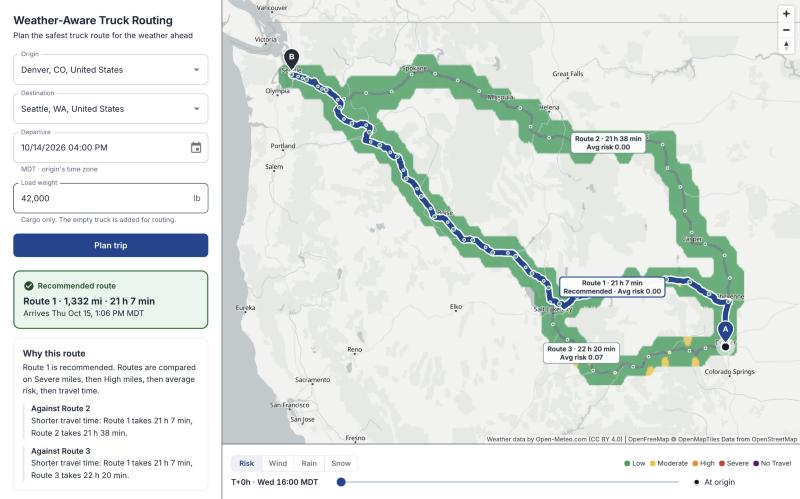
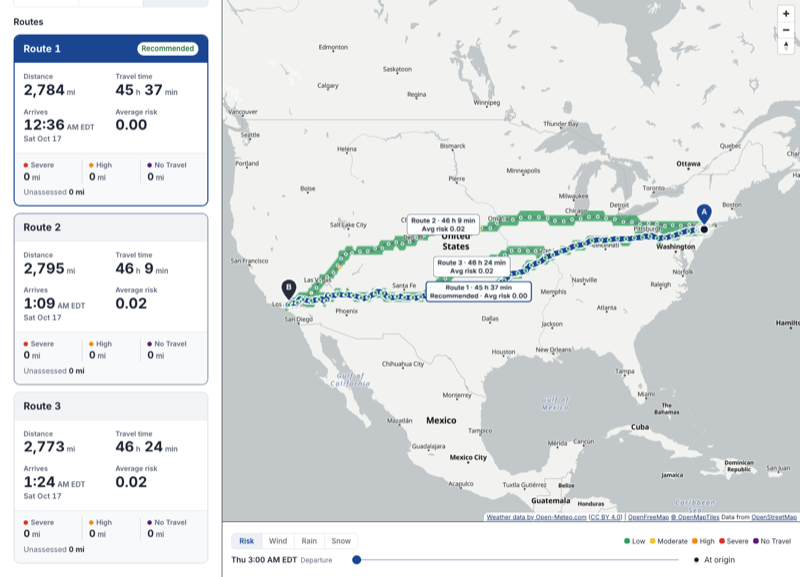
docs: describe the planner as worldwide and record the judgement calls
Place search and routing work anywhere, so the North America limits are removed from
the README and the fixtures note. The README now states the judgement calls that the
code makes: boundary values, strict load rules, gust warnings (kept, informational),
combined risk, the average-risk scale and the 0.25 tie band, forecast hour selection,
interval tiers and the overrides. It drops the removed waking notice. The screenshot is
retaken from the live site. backend/.env.example lists every variable the backend reads,
with empty or non-secret values.

diff --git a/README.md b/README.md
@@ -6,13 +6,13 @@ A truck driver enters an origin, a destination, a departure time and a load weig
 
 ![The planner: three routes, the recommendation, risk-coloured checkpoints and the forecast heatmap](assets/screenshot.png)
 
-The server sleeps when idle, so the first request after a quiet period can take a few seconds. The app says so while it waits.
+The server sleeps when idle, so the first request after a quiet period can take a few seconds.
 
 ## What it does
 
 | The brief asks for | Where it is |
 | --- | --- |
-| Origin, destination, departure time, load weight | Address search limited to the US, Canada and Mexico. Date-time picker in the origin's time zone. Weight in pounds, 1 to 50,000. |
+| Origin, destination, departure time, load weight | Address search anywhere in the world (HERE, with Photon as a fallback). Date-time picker in the origin's time zone. Weight in pounds, 1 to 50,000. |
 | Three route options from a routing API | HERE Routing v8 in truck mode, with the truck's weight and traffic at departure. Near-duplicates are merged and detours fill the gaps. |
 | Weather every 10, 25 or 50 miles at the truck's ETA | The interval is chosen from trip length, with a 10 / 25 / 50 mi override. ETAs come from HERE's segment-level time profile. Forecasts are Open-Meteo hourly data. |
 | Risk from the provided rules | Wind, rain and snow thresholds plus the load rules, in one pure module ([`risk.py`](backend/api/risk.py)). |
@@ -131,7 +131,7 @@ Interactive docs: **[/api/docs](https://spotter.murtazasaifee.com/api/docs)** (S
 
 | Endpoint | Purpose |
 | --- | --- |
-| `GET /api/places/suggest?q=` | Up to 8 North American place suggestions with coordinates and time zone. |
+| `GET /api/places/suggest?q=` | Up to 8 place suggestions from anywhere in the world, with coordinates and time zone. |
 | `POST /api/plan` | Routes, checkpoints, risk, ranking and the recommendation. |
 | `POST /api/heatmap` | 49 hourly frames of risk, wind, rain and snow over the routes a plan returned. |
 | `GET /api/health` | Liveness, no dependencies. |
@@ -174,14 +174,14 @@ The thresholds:
 1. **A value exactly on a band edge goes to the higher band.** The brief's ranges share their edges (0.25 in/hr rain is both Moderate and High). Erring toward caution is the only defensible reading for a safety tool. This includes the top band: the brief writes No Travel as rain "> 1.00" and snow "> 3.0", but here exactly 1.00 in/hr and 3.0 in/hr are No Travel. This is the one place where the code departs from the brief's literal text.
 2. **The weight rules are strict.** "More than 30,000 lb" and "more than 40,000 lb" are read literally, so a load of exactly 30,000 or 40,000 lb is not escalated. The rules: wind ≥ 55 is No Travel for any load; 45 to 54 mph over 30,000 lb is No Travel; 35 to 44 mph over 40,000 lb is Severe. They only raise wind, and the stricter of table and load rule wins. The load rules read the cargo weight the driver enters, not the gross weight.
 3. **Worst-of, combined conditions and the score bonus.** A checkpoint's level is the worst of its wind (after the load rules), rain and snow levels. The condition or conditions at that level are shown as the driver of the risk, and a Low checkpoint has none. If two or more conditions are Moderate or worse, the checkpoint is flagged as combined ("wind + snow") and its score is the level (Low 0 to No Travel 4) plus 0.5. The bonus feeds only the average-risk comparison. It never changes the displayed level, because the published table should stay true.
-4. **The gust warning is informational.** Gusts go through the same wind table and load rules. A warning shows only when the gust-implied level is High or worse and higher than the sustained wind's level. Warning on every breezy checkpoint would make the signal worthless. It never changes the level, the score or the ranking, because the brief's rules are about sustained wind.
+4. **Gust warnings are kept, and they are informational.** Gusts go through the same wind table and load rules. A warning shows only when the gust-implied level is High or worse and higher than the sustained wind's level. Warning on every breezy checkpoint would make the signal worthless. It never changes the level, the score or the ranking, because the brief's rules are about sustained wind.
 5. **No data is never Low.** If sustained wind, rain or snow is still missing after trying the hour either side, the checkpoint is No data: grey, left out of risk miles and average risk, and counted as the route's unassessed miles, with a plan-level notice. Treating "unknown" as "safe" would give false reassurance. The one exception is a known No Travel: it is the top level, so a missing value cannot change it, and the checkpoint is No Travel (driven by the known conditions) and blocks the route as usual. Any lower known level stays No data, because the missing values could raise it. A missing gust alone only drops the gust warning. A route with nothing assessed is never preferred on average risk over one that has data.
 6. **Rain means rain plus showers.** Open-Meteo's `rain` is large-scale rain only; convective downpours are in `showers`. Wind is the sustained 10 m wind, and snow is inches of snow per hour.
 
 **Checkpoints and forecasts**
 
 7. **Forecast hour selection.** Open-Meteo stamps each hourly value at time T. Wind is an instant reading at T, so it is taken at the whole hour nearest the ETA. Gusts, rain, showers and snowfall are the maximum or total over the hour before T, so they come from the stamp at or just after the ETA: the hour that contains it. A missing value borrows the neighbouring hour, nearer one first. Forecasts are fetched for the current UTC day plus seven more (192 hours); anything outside that is No data.
-8. **Interval tiers.** The interval is chosen from the shortest of the three routes: under 300 miles gives 10, 300 to 1,000 miles inclusive gives 25, over 1,000 gives 50. Short trips get detail, long hauls are not buried in points. The driver can override it, and all three routes always share one interval so their risk is compared fairly. Origin and destination are always checkpoints, and a final gap shorter than the interval is kept as it is.
+8. **Interval tiers.** The interval is chosen from the shortest of the three routes: under 300 miles gives 10, 300 to 1,000 miles inclusive gives 25, over 1,000 gives 50. Short trips get detail, long hauls are not buried in points. The driver can override it with 10, 25 or 50 miles, and all three routes always share one interval so their risk is compared fairly. Origin and destination are always checkpoints, and a final gap shorter than the interval is kept as it is.
 9. **ETAs follow the road.** HERE returns the route in about a thousand spans, each with a length and a traffic-aware duration. A checkpoint's ETA is the departure time plus the elapsed time at its distance, interpolated inside its span, so slow city stretches and predicted traffic delay later checkpoints. There are no driver rest stops (see the limitations).
 10. **Centred covered miles.** A checkpoint stands for the road around it: half the gap to the previous checkpoint plus half the gap to the next. The first and last cover only their inner half, so a route's covered miles add up to its length. Risk miles and average risk use these weights, so a checkpoint in the middle of a long gap counts for more road than one in a short gap.
 11. **The 35,000 lb empty-truck assumption.** HERE needs the whole vehicle's weight, but the driver enters only the cargo. The code adds 35,000 lb for an empty tractor and 53 ft trailer (a typical Class 8 figure; the constant is `EMPTY_TRUCK_WEIGHT_LB`) and sends `vehicle[grossWeight]` in kilograms, `(35,000 + load) × 0.45359237`, rounded. A 42,000 lb load is sent as 34,927 kg. This affects routing only. Risk uses the cargo weight, as the brief's rules do.
@@ -189,7 +189,7 @@ The thresholds:
 **Ranking and the recommendation**
 
 12. **Exact comparison for Severe and High miles.** Routes are compared on Severe miles first, then High miles, after rounding to 0.1 mile (so floating-point noise cannot decide). Any difference counts, even one checkpoint's worth: a real stretch of dangerous road is never traded for convenience.
-13. **A 0.25 tolerance on average risk.** Every route within 0.25 of the lowest average risk counts as tied, and the shortest travel time decides among them. Without a tolerance, a route that is marginally calmer but hours longer would beat a practically equal faster one. The tolerance is inclusive (exactly 0.25 apart is a tie). The winner takes rank 1 and the procedure repeats on the rest, because a pairwise "close enough" comparison is not transitive and could order the same routes differently on each run. "Why this route" reports the first criterion that separated the recommendation from each alternative, with both values.
+13. **Average risk and a 0.25 tolerance.** A checkpoint's score runs from 0 (Low) to 4 (No Travel), plus 0.5 when it is combined (item 3). Average risk is that score averaged by covered miles (item 10). Every route within 0.25 of the lowest average risk counts as tied, and the shortest travel time decides among them. Without a tolerance, a route that is marginally calmer but hours longer would beat a practically equal faster one. The tolerance is inclusive (exactly 0.25 apart is a tie). The winner takes rank 1 and the procedure repeats on the rest, because a pairwise "close enough" comparison is not transitive and could order the same routes differently on each run. "Why this route" reports the first criterion that separated the recommendation from each alternative, with both values.
 14. **No Travel blocks a route.** Any route with a No Travel checkpoint is blocked and is never recommended, however fast. Blocked routes are still shown (dashed) and ranked after the eligible ones, by fewest No Travel miles and then the usual criteria, so the driver can see how bad each option is. **If every route is blocked there is no recommendation**, and the app shows "Do not travel at this departure time" instead of naming the least-bad route.
 
 **Routes, heatmap and inputs**
@@ -206,7 +206,7 @@ The thresholds:
 - **Non-commercial weather terms.** Open-Meteo's free API is for non-commercial use. This app has no ads or subscriptions. Anything commercial would need a paid plan. The data is CC BY 4.0 and is credited on the map.
 - **The HERE time-aware SKU.** Passing a departure time may also be billed against HERE's separate time-aware routing allowance. That was not verified. Both allowances are well above this app's use, but it is a cost to check before wider use.
 - **No Hours of Service.** See interpretation 17.
-- **North America only.** Place search is limited to the US, Canada and Mexico, and coordinates must fall inside a bounding box around them (which also takes in a little ocean and the Caribbean). The truck rules and thresholds are US units.
+- **US units.** The truck rules and thresholds are in US units: wind in mph, rain and snow in inches per hour, and load in pounds. The app shows distances in miles and does not convert the rules to metric.
 - **Only wind, rain and snow.** Ice, freezing rain, fog, visibility and temperature are not in the brief's table and are not assessed.
 - **Cold starts and the cache.** Cloud Run scales to zero, so a ping every 10 minutes keeps it mostly warm, but an occasional first request takes a few seconds. The hosted Redis (a free-tier instance) answers in about 50 ms per command from Cloud Run, so every cache access on a request path is batched into one call.
 - **Fixed-hour rate-limit windows and the direct-URL bypass.** See [Rate limits](#rate-limits).

diff --git a/backend/tests/fixtures/README.md b/backend/tests/fixtures/README.md
@@ -6,9 +6,9 @@ respx. An edge case is a hand-edited copy made inside the test, never a second f
 
 Scrub secrets before saving: replace the HERE key with `REDACTED` anywhere it could appear.
 
-The two places files were recorded while place search was limited to North America. The app no
-longer sends the `in` or `bbox` parameter, so their request column is what was recorded, not
-what the app sends today.
+The two places rows below are historical recordings, made while place search was still limited to
+North America. The app no longer sends the `in` or `bbox` parameter, so their request column is what
+was recorded, not what the app sends today.
 
 | File | Request | Recorded |
 |---|---|---|
